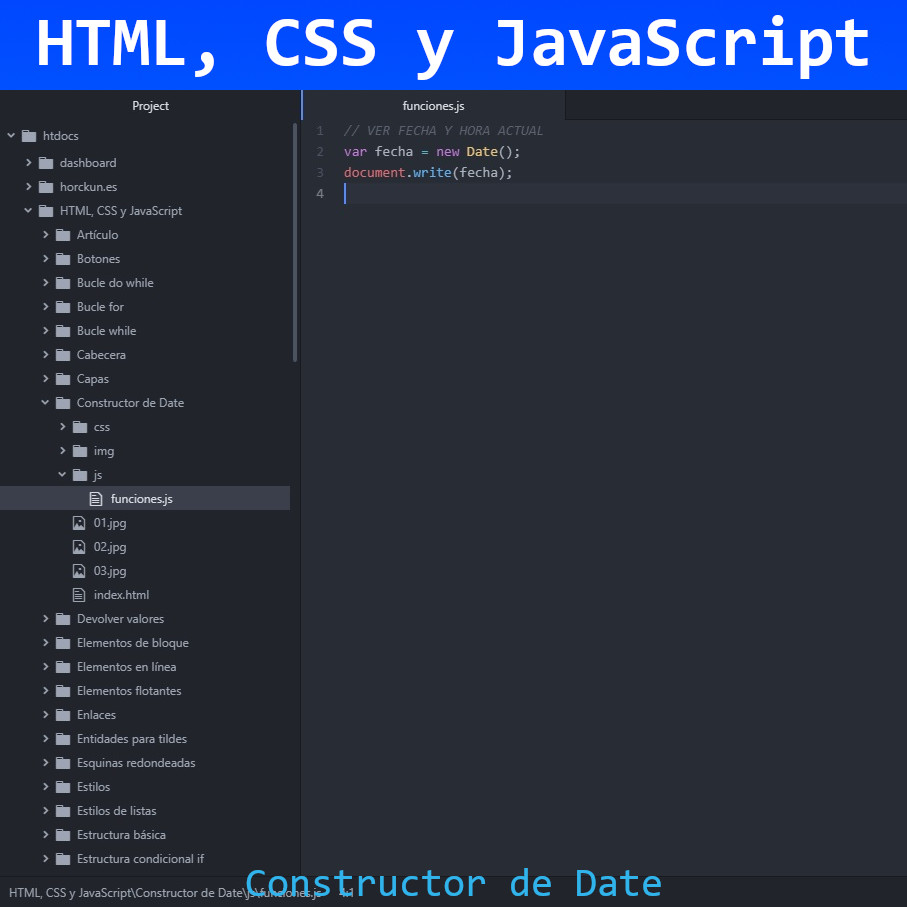
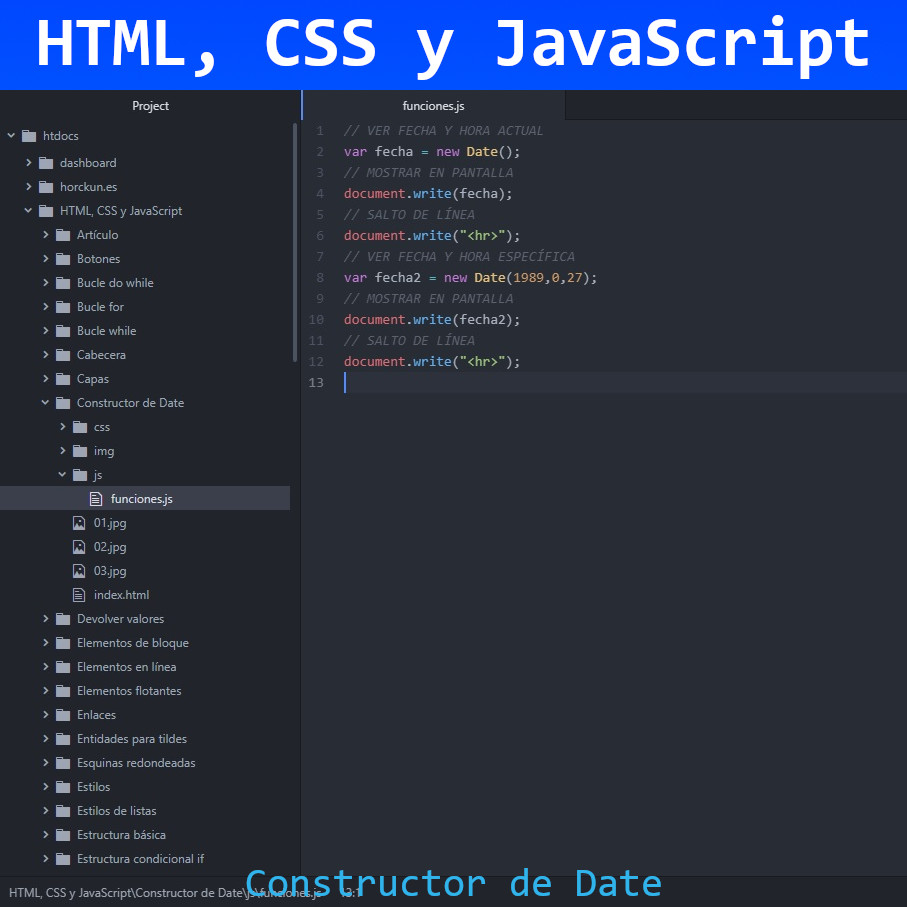
Constructor de Date
Constructor de Date en JavaScript

Changed region(s): [[0.3705, 0.1852, 0.6483, 0.4322]]

diff --git a/HTML, CSS y JavaScript/Constructor de Date/js/funciones.js b/HTML, CSS y JavaScript/Constructor de Date/js/funciones.js
@@ -1,3 +1,12 @@
 // VER FECHA Y HORA ACTUAL
 var fecha = new Date();
+// MOSTRAR EN PANTALLA
 document.write(fecha);
+// SALTO DE LÍNEA
+document.write("<hr>");
+// VER FECHA Y HORA ESPECÍFICA
+var fecha2 = new Date(1989,0,27);
+// MOSTRAR EN PANTALLA
+document.write(fecha2);
+// SALTO DE LÍNEA
+document.write("<hr>");
